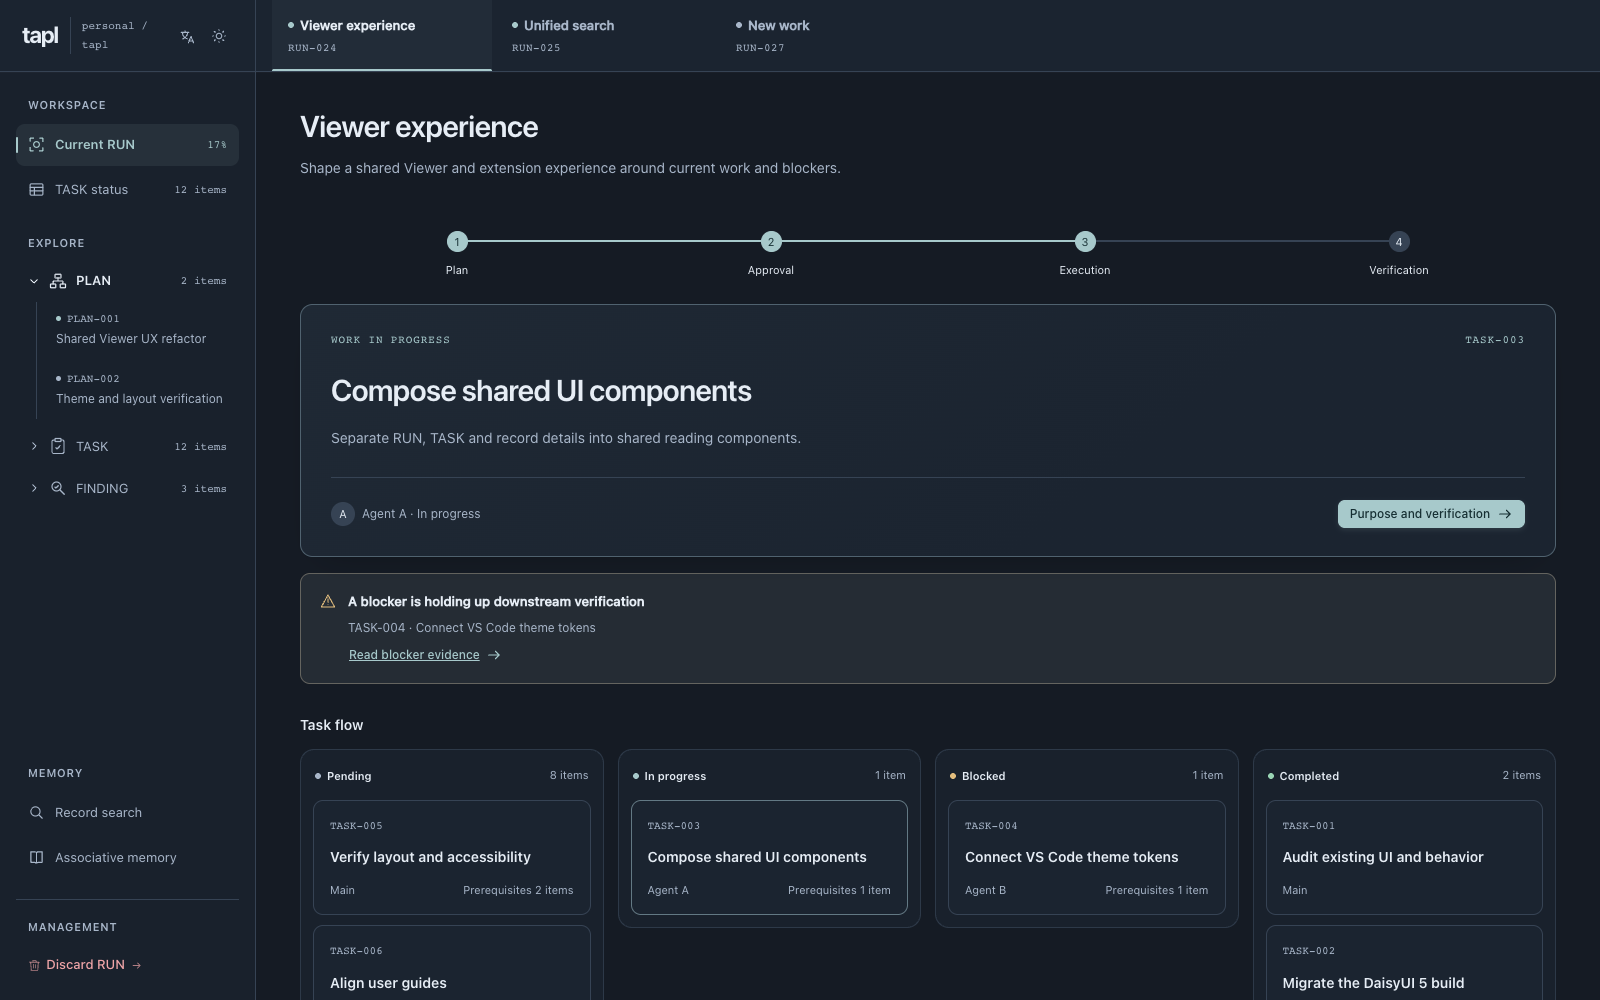
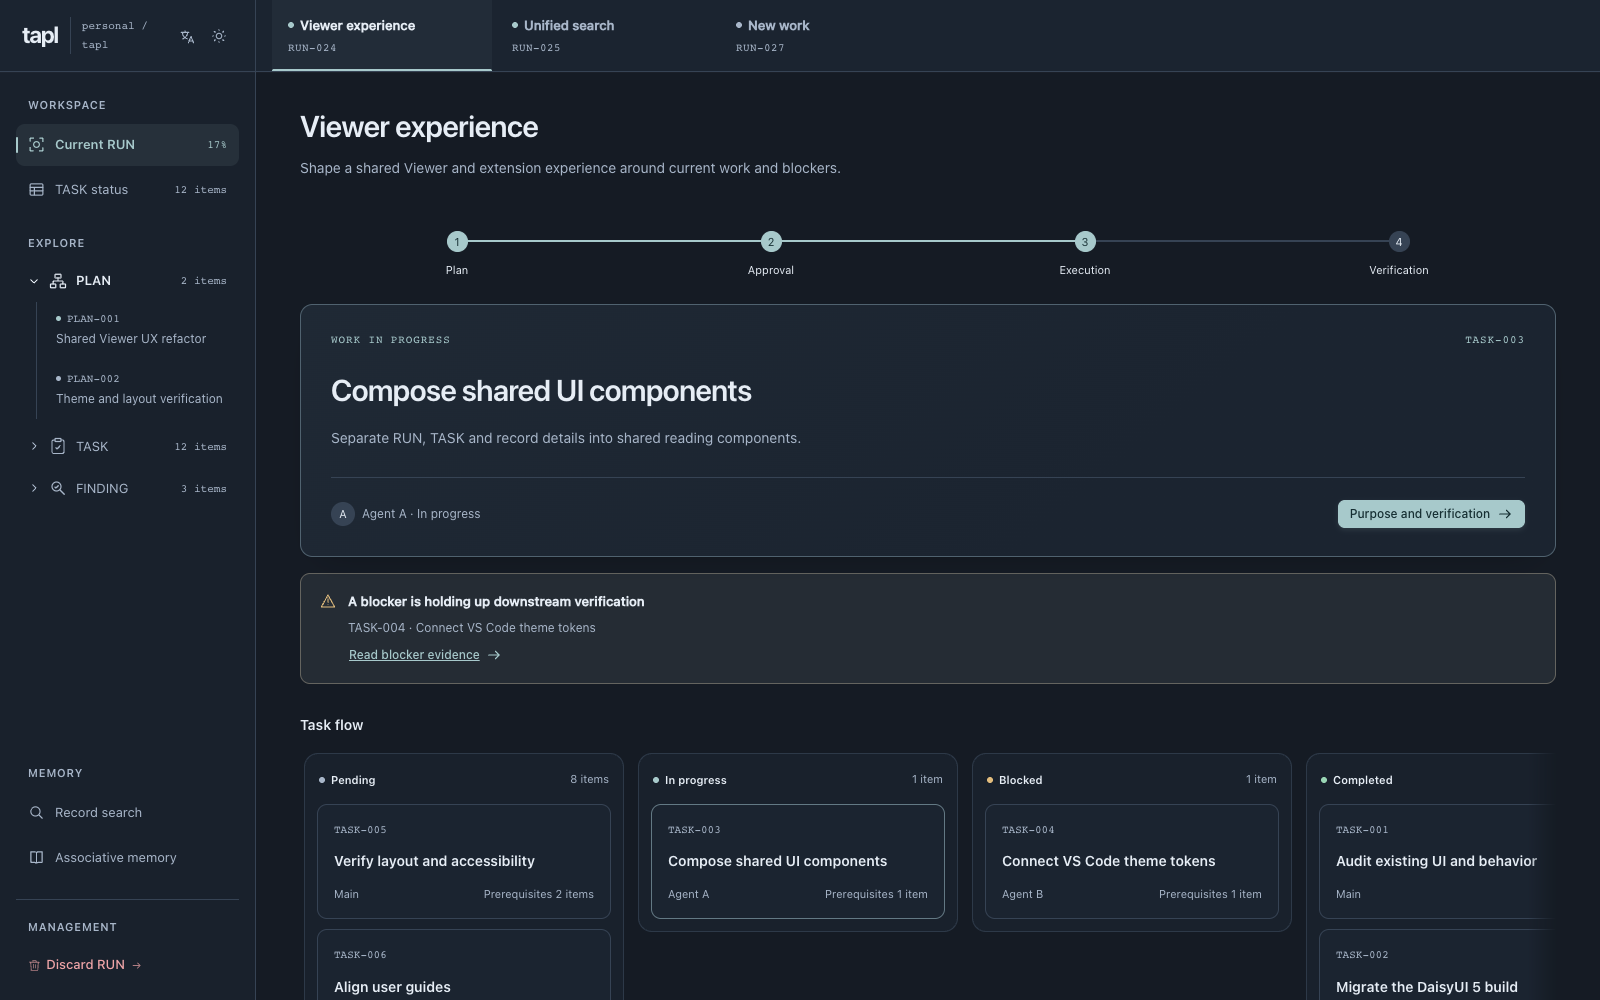
Add horizontal Flow kanban scrolling with fading edges

diff --git a/docs/design/viewer-workbench/workbench.js b/docs/design/viewer-workbench/workbench.js
@@ -556,6 +556,7 @@ function view() {
       memory: null,
       scrolls: {},
       foldScrolls: {},
+      flowPosition: 0,
     });
   return views.get(state.run);
 }
@@ -632,11 +633,53 @@ function flowBoard(items) {
   const ordered = [...items].sort((a, b) => a.id.localeCompare(b.id, undefined, { numeric: true }));
   const states = ["pending", "running", "blocked", "done"];
   if (items.some((item) => item.status === "skipped")) states.push("skipped");
-  return `<section class="flow-section" aria-labelledby="flow-title"><div class="section-title"><h2 id="flow-title">${t("flowBoard")}</h2></div><div class="flow-board">${states.map((status) => {
+  return `<section class="flow-section"><div class="section-title"><h2 id="flow-title">${t("flowBoard")}</h2></div><div class="flow-viewport"><div id="flow-board" class="flow-board" role="region" aria-labelledby="flow-title" tabindex="0">${states.map((status) => {
     const lane = ordered.filter((item) => item.status === status);
     return `<section class="flow-lane" aria-labelledby="flow-${status}"><header class="flow-heading"><h3 id="flow-${status}">${statusMark(status)}</h3><span class="flow-count">${formatItemCount(lane.length)}</span></header><ul class="flow-list">${lane.map((item) => `<li><button id="flow-${item.id}" class="card flow-task" type="button" data-record="${item.uid}" aria-describedby="flow-${status}"><span class="mono flow-task-id">${item.id}</span><span class="flow-task-title">${esc(tr(item.title))}</span><span class="flow-task-footer"><span>${esc(tr(item.owner))}</span>${item.depends.length ? `<span>${t("depends")} ${formatItemCount(item.depends.length)}</span>` : ""}</span></button></li>`).join("") || `<li class="flow-empty">${t("emptyLane")}</li>`}</ul></section>`;
-  }).join("")}</div></section>`;
+  }).join("")}</div></div></section>`;
 }
+function flowLaneStep(board) {
+  return board.firstElementChild.getBoundingClientRect().width + parseFloat(getComputedStyle(board).columnGap);
+}
+function readFlowPosition(board) {
+  return board.scrollLeft / flowLaneStep(board);
+}
+function updateFlowEdges() {
+  const board = $("#flow-board");
+  if (!board) return;
+  const fade = parseFloat(getComputedStyle(board).getPropertyValue("--flow-fade-size"));
+  const remaining = board.scrollWidth - board.clientWidth - board.scrollLeft;
+  const opacity = (distance) => String(Math.max(0, Math.min(1, 1 - distance / fade)));
+  board.style.setProperty("--flow-left-opacity", opacity(board.scrollLeft));
+  board.style.setProperty("--flow-right-opacity", opacity(remaining));
+}
+function restoreFlowPosition() {
+  const board = $("#flow-board");
+  if (!board) return;
+  board.scrollLeft = view().flowPosition * flowLaneStep(board);
+  view().flowPosition = readFlowPosition(board);
+  updateFlowEdges();
+}
+window.addEventListener("resize", updateFlowEdges);
+document.addEventListener("scroll", (event) => {
+  const board = event.target;
+  if (board.id !== "flow-board" || !board.isConnected) return;
+  views.get(board.closest("#page-content").dataset.run).flowPosition = readFlowPosition(board);
+  updateFlowEdges();
+}, true);
+document.addEventListener("focusin", (event) => {
+  const card = event.target.closest?.("#flow-board .flow-task");
+  if (card) card.scrollIntoView({ block: "nearest", inline: "nearest" });
+});
+document.addEventListener("keydown", (event) => {
+  const board = event.target;
+  if (board.id !== "flow-board" || !["ArrowLeft", "ArrowRight", "Home", "End"].includes(event.key)) return;
+  event.preventDefault();
+  const left = event.key === "Home" ? 0
+    : event.key === "End" ? board.scrollWidth
+    : board.scrollLeft + (event.key === "ArrowRight" ? 1 : -1) * flowLaneStep(board);
+  board.scrollTo({ left, behavior: motionPreference.matches ? "auto" : "smooth" });
+});
 function currentPage() {
   const run = currentRun(),
     items = taskRecords(),
@@ -1123,6 +1166,11 @@ function render(options = {}) {
   pageMotions = [];
   const token = focusToken();
   const scroll = $("#page-scroll").scrollTop;
+  if (options.captureFlow !== false) {
+    const board = $("#flow-board");
+    const previous = views.get($("#page-content").dataset.run);
+    if (board && previous) previous.flowPosition = readFlowPosition(board);
+  }
   if (options.captureSearch !== false) {
     const content = $("#page-content");
     const previous = views.get(content.dataset.run);
@@ -1137,6 +1185,7 @@ function render(options = {}) {
   renderTabs();
   renderSidebar(options.captureSidebar !== false);
   renderPage();
+  restoreFlowPosition();
   syncResponsiveMenu();
   $("#page-scroll").scrollTop = options.resetScroll ? 0 : scroll;
   syncUrl();
@@ -1160,6 +1209,7 @@ function rememberPage() {
   finishFoldMotion();
   finishDisclosures();
   const saved = structuredClone(view());
+  if ($("#flow-board")) saved.flowPosition = readFlowPosition($("#flow-board"));
   $("#record-folds")
     .querySelectorAll(".fold-list:not([hidden])")
     .forEach((list) => (saved.foldScrolls[list.id] = list.scrollTop));
@@ -1186,6 +1236,7 @@ function goBack() {
     focusPage: true,
     captureSearch: false,
     captureSidebar: false,
+    captureFlow: false,
     motion: "page",
   });
   $("#page-scroll").scrollTop = previous.scroll;

diff --git a/docs/design/viewer-workbench/workbench.css b/docs/design/viewer-workbench/workbench.css
@@ -706,13 +706,46 @@ select {
   min-width: 0;
   margin-top: 30px;
 }
+.flow-viewport {
+  min-width: 0;
+}
 .flow-board {
-  display: grid;
-  grid-template-columns: repeat(4, minmax(0, 1fr));
-  align-items: start;
+  --flow-fade-size: 28px;
+  --flow-left-opacity: 1;
+  --flow-right-opacity: 1;
+  --flow-mask: linear-gradient(
+    to right,
+    rgb(0 0 0 / var(--flow-left-opacity)),
+    #000 var(--flow-fade-size),
+    #000 calc(100% - var(--flow-fade-size)),
+    rgb(0 0 0 / var(--flow-right-opacity))
+  );
+  display: flex;
+  flex-wrap: nowrap;
+  align-items: flex-start;
   gap: 14px;
+  min-width: 0;
+  overflow-x: auto;
+  overflow-y: hidden;
+  padding: 4px 4px 12px;
+  scroll-padding-inline: 30px;
+  overscroll-behavior-x: contain;
+  scrollbar-width: thin;
+  scrollbar-color: var(--color-base-300) transparent;
+  -webkit-mask-image: var(--flow-mask);
+  mask-image: var(--flow-mask);
+}
+.flow-board:focus-visible {
+  outline: none;
+}
+.flow-viewport:has(> .flow-board:focus-visible) {
+  outline: 2px solid var(--color-primary);
+  outline-offset: 3px;
+  border-radius: 14px;
 }
 .flow-lane {
+  flex: 0 0 320px;
+  max-width: calc(100% - 28px);
   min-width: 0;
   padding: 12px;
   border: 1px solid color-mix(in srgb, var(--color-base-300) 70%, transparent);
@@ -1697,9 +1730,6 @@ select {
   }
 }
 @media (max-width: 1250px) {
-  .flow-board {
-    grid-template-columns: repeat(2, minmax(0, 1fr));
-  }
   :root {
     --rail: 225px;
   }
@@ -2112,11 +2142,5 @@ select {
     animation: none !important;
     transition: none !important;
     scroll-behavior: auto !important;
-  }
-}
-
-@media (max-width: 600px) {
-  .flow-board {
-    grid-template-columns: minmax(0, 1fr);
   }
 }

diff --git a/docs/development/viewer-ux-design.md b/docs/development/viewer-ux-design.md
@@ -20,7 +20,7 @@ On PC, the top bar and sidebar remain fixed while only the right page scrolls. T
 
 TASK status and PLAN/TASK/FINDING tabs display counts with units: `12개` in Korean and `12 items` (`1 item` for singular) in English.
 
-Current RUN omits the top aggregate and bottom plan summary. The status kanban from 02 Flow Board appears below Plan, Approval, Execution and Verification progress and `Work in progress`. Pending, In progress, Blocked and Completed columns show counts with units, titles, owners and prerequisites in TASK ID order; skipped tasks get a separate column when present. Cards are read-only and open Explore details, with Back restoring page scroll and the original card focus. The board uses four columns on PC, two at intermediate widths and one on narrow screens, with page scrolling only. The carousel, Up next and Completed work lists are omitted.
+Current RUN omits the top aggregate and bottom plan summary. The status kanban from 02 Flow Board appears below Plan, Approval, Execution and Verification progress and `Work in progress`. Pending, In progress, Blocked and Completed columns show counts with units, titles, owners and prerequisites in TASK ID order; skipped tasks get a separate column when present. Cards are read-only and open Explore details, with Back restoring page scroll and the original card focus. Status columns stay in one horizontal row at every width; scroll within the board to browse categories. A transparency gradient softens edges with remaining content, clearing at the corresponding start or end. Vertical movement uses page scrolling. The scroll region is keyboard accessible and restores its horizontal position across RUN, language and theme changes and Back. The carousel, Up next and Completed work lists are omitted.
 
 The header uses the `tapl` name as text. Pages opened through internal links show a `Back` button at the upper right. TASKs, search results, related records and memory sources can return to the previous RUN, page, query/filter, expanded groups, selected record and scroll position. The current language and theme remain in effect. Choosing a sidebar page or top RUN tab directly starts a new navigation path and clears the return trail. Direct links and reloaded pages have no return button.
 
